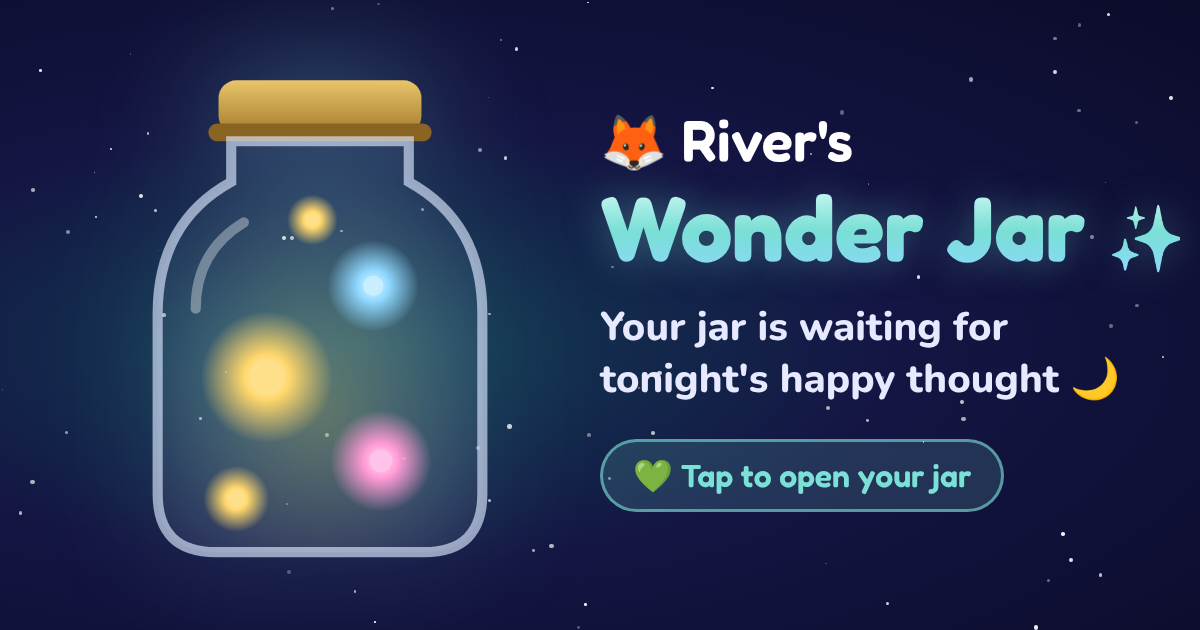
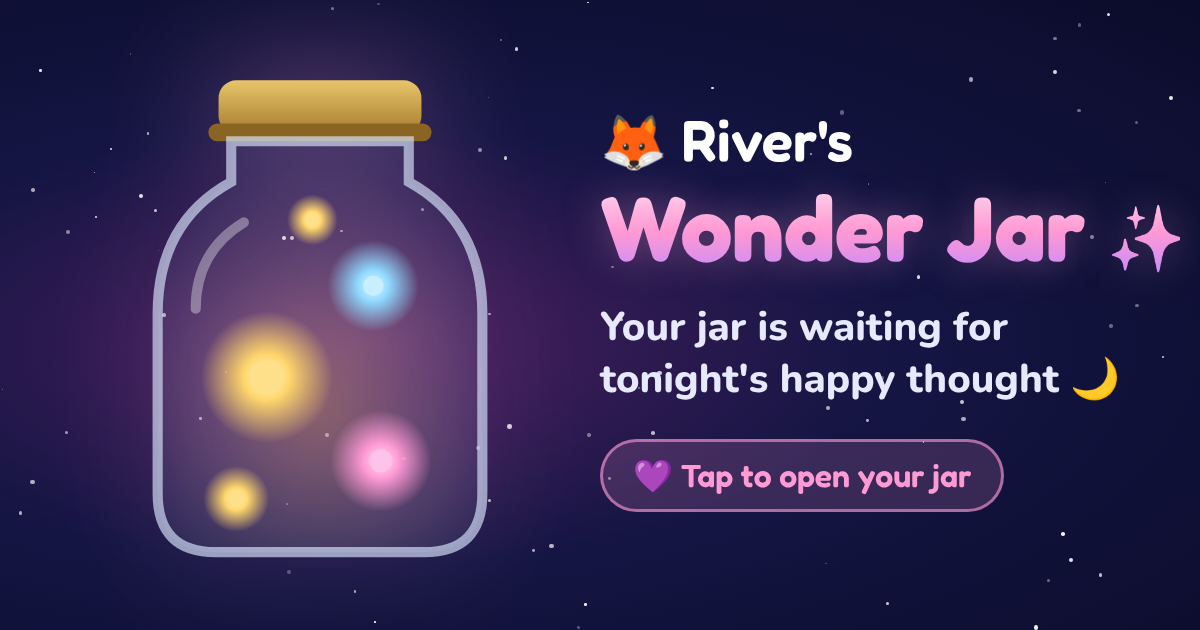
Swap link-card colors: aqua for Sedona, purple for River
Claude-Session: https://claude.ai/code/session_01T8hmtgTPFL3pUowAXfeBbW

Changed region(s): [[0.0308, 0.2111, 0.9867, 0.8143]]

diff --git a/sedona/index.html b/sedona/index.html
@@ -20,7 +20,7 @@
 <!-- link previews read the tags above; people hop straight into the app with Sedona's jar open -->
 <meta http-equiv="refresh" content="0; url=../?kid=sedona">
 <script>location.replace('../?kid=sedona');</script>
-<style>body{margin:0;min-height:100vh;display:grid;place-items:center;background:#0b0c2a;color:#f5a9d0;font:600 22px system-ui,sans-serif}a{color:inherit}</style>
+<style>body{margin:0;min-height:100vh;display:grid;place-items:center;background:#0b0c2a;color:#7be0d6;font:600 22px system-ui,sans-serif}a{color:inherit}</style>
 </head>
 <body><a href="../?kid=sedona">🦋 Opening Sedona's jar… ✨</a></body>
 </html>

diff --git a/river/index.html b/river/index.html
@@ -20,7 +20,7 @@
 <!-- link previews read the tags above; people hop straight into the app with River's jar open -->
 <meta http-equiv="refresh" content="0; url=../?kid=river">
 <script>location.replace('../?kid=river');</script>
-<style>body{margin:0;min-height:100vh;display:grid;place-items:center;background:#0b0c2a;color:#7be0d6;font:600 22px system-ui,sans-serif}a{color:inherit}</style>
+<style>body{margin:0;min-height:100vh;display:grid;place-items:center;background:#0b0c2a;color:#c58bff;font:600 22px system-ui,sans-serif}a{color:inherit}</style>
 </head>
 <body><a href="../?kid=river">🦊 Opening River's jar… ✨</a></body>
 </html>
